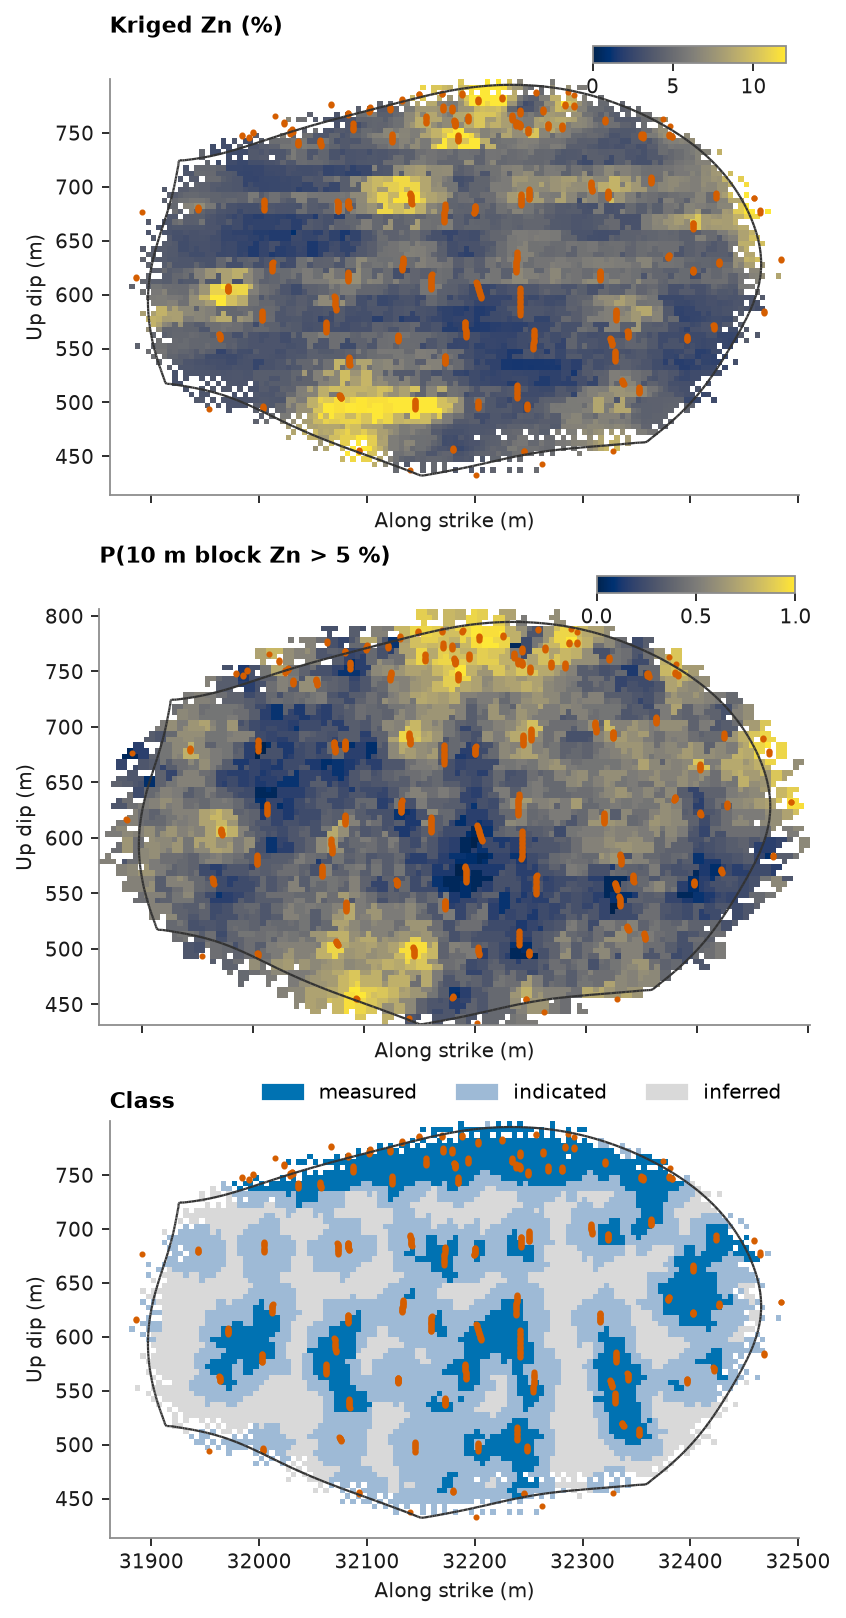
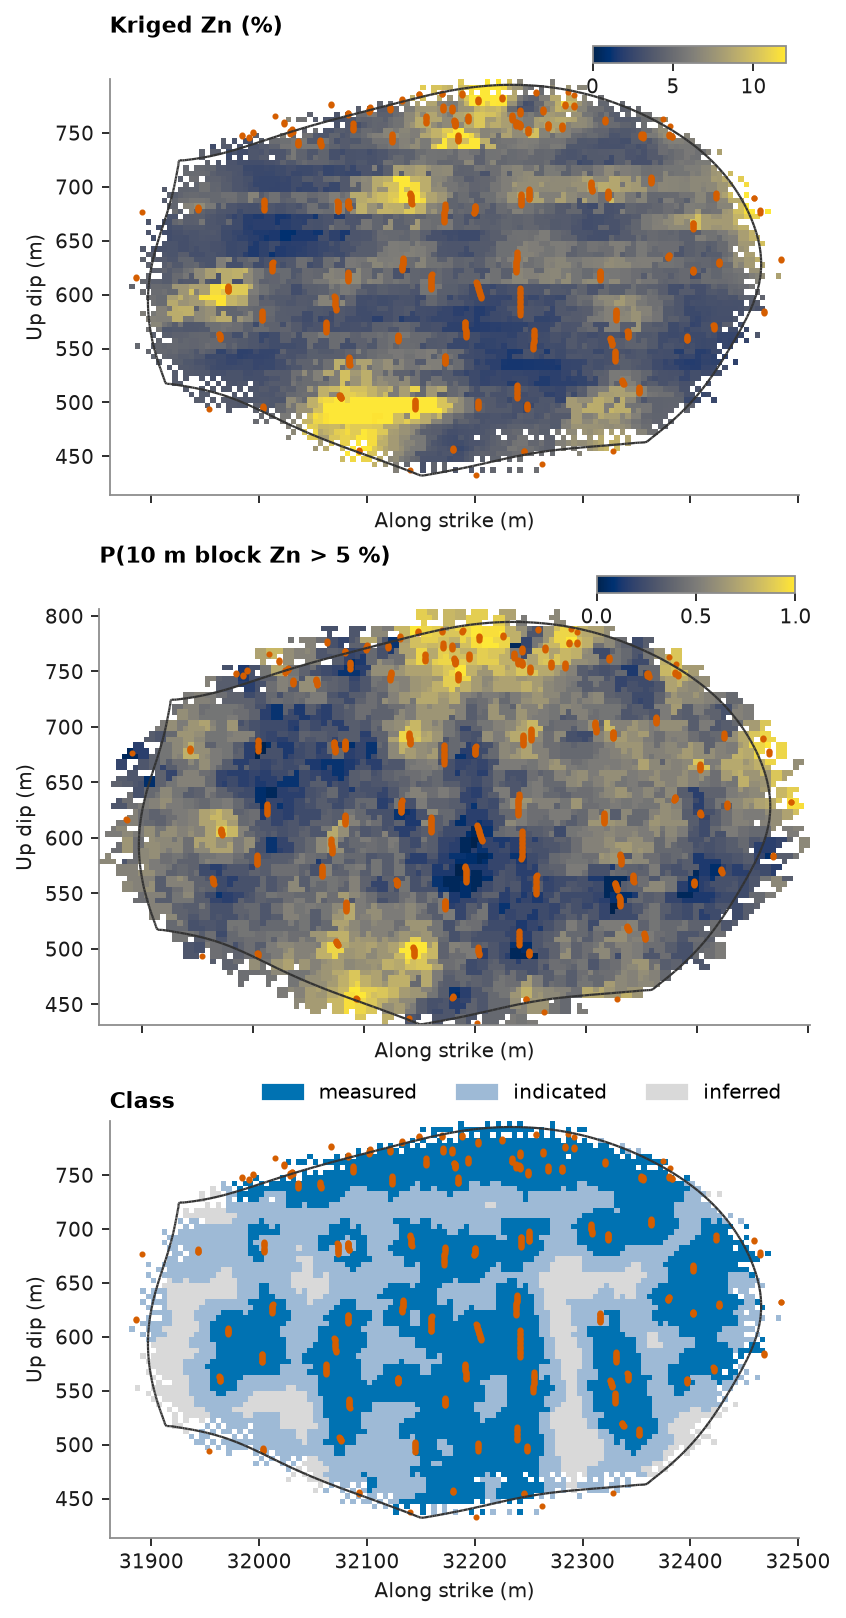
docs(examples): fit the zinc case study variogram up to its plateau
With the exact nugget fit, the Zn and normal-score variograms of lens 1,
fitted over all lags to 150 m, came out with a range at the end of the
lags (148 and 176 m) and a nugget of two thirds of the sill: the long
lags hold three to four times the pairs of the short ones and set the
pair-count weighted fit. Both are now fitted up to 60 m, just past the
45 m where gamma first reaches its plateau; the fit is stable for any
maximum lag from 50 to 70 m.

Zn: nugget 6.86, spherical sill 8.25, range 56 m. Measured, indicated
and inferred blocks: 36, 42 and 21 %. The validation and tonnage prose
now states the printed numbers.

diff --git a/examples/12-case-studies/02-drillholes-to-classified-model/example_12_02.py b/examples/12-case-studies/02-drillholes-to-classified-model/example_12_02.py
@@ -98,14 +98,16 @@ save(fig, "statistics")
 #
 # Lens 1 has the most composites. A thin lens leaves few pairs across it, so the variogram is omnidirectional;
 # kriging uses the variogram of the grades, simulation that of the declustered normal scores, rescaled to a unit
-# sill.
+# sill. Both are fitted up to 60 m, just past the 45 m where γ first reaches its plateau: the longer lags hold three
+# to four times as many pairs, so with the fit weighted by pair count their scatter about the plateau would set the
+# model and stretch the range to the end of the lags.
 
 # %%
 one = composites.filter(names == "lens_1")
 grades = bt.experimental_variogram(one, "ZN_PCT", 10.0, 150.0)
-variogram = grades.fit("spherical")
+variogram = bt.experimental_variogram(one, "ZN_PCT", 10.0, 60.0).fit("spherical")
 scores = bt.NormalScore().fit(one["ZN_PCT"], weights=one["weight"])
-fitted = bt.experimental_variogram(one.coords, scores.transform(one["ZN_PCT"]), 10.0, 150.0).fit("spherical")
+fitted = bt.experimental_variogram(one.coords, scores.transform(one["ZN_PCT"]), 10.0, 60.0).fit("spherical")
 gaussian = fitted.standardized()
 for label, model in (("Zn", variogram), ("normal scores", gaussian)):
     s = model.structures[0]
@@ -235,9 +237,8 @@ fig.legend(*axes[0].get_legend_handles_labels(), loc="outside lower center", nco
 save(fig, "swath")
 
 # %% [markdown]
-# In lens 1 the kriged mean equals that of the nearest-neighbor model and lies 5.3 % above the declustered
-# composites; in lenses 2 and 3 it is 4 and 3 % above the declustered composites but 12 and 18 % above nearest
-# neighbor. The two references disagree with each other as much as with the model: nearest neighbor spreads each
+# In lens 1 the kriged mean lies 3 % below the nearest-neighbor model and 7 % below the declustered composites; in
+# lenses 2 and 3 it is 2 and 6 % below the declustered composites but 1 and 4 % above nearest neighbor. The two references disagree with each other as much as with the model: nearest neighbor spreads each
 # edge composite over the blocks around it, and cell declustering depends on the cell size it settles on. Along
 # northing and elevation, kriged blocks and nearest neighbor follow the same course, and the composites swing
 # around both, as raw data do.
@@ -245,7 +246,7 @@ save(fig, "swath")
 # ## Classification
 #
 # Measured blocks come from the first pass with a slope of regression of at least 0.6; indicated, from the first
-# two passes with a slope of 0.3; the rest is inferred. With a nugget of 42 % of the sill and a 46 m range, only
+# two passes with a slope of 0.3; the rest is inferred. With a nugget of 45 % of the sill and a 56 m range, only
 # blocks close to several holes qualify as measured.
 
 # %%
@@ -303,8 +304,9 @@ for groups in (block_lens, classes):
         print(f"{category:10} ≥ {cutoff:1.0f} % Zn{tonnes / 1e3:8.0f}{grade:7.2f}{metal / 1e5:8.1f}")
 
 # %% [markdown]
-# The three lenses hold 22.3 Mt at 5.66 % Zn, 1.26 Mt of zinc, of which 12.0 Mt at 7.45 % lie above 5 % Zn. Lens 1
-# carries 38 % of the metal; measured blocks, only 628 kt, are its rich core near the top.
+# The three lenses hold 22.3 Mt at 5.69 % Zn, 1.27 Mt of zinc, of which 11.9 Mt at 7.50 % lie above 5 % Zn. Lens 1
+# carries 38 % of the metal. Measured blocks, 8.9 Mt at 5.80 % Zn, gather around the holes; inferred ones fill the
+# edges of the lenses and the gaps between holes.
 #
 # The model, sub-blocks, lens names, grades, classes and all, goes to Parquet and back unchanged.
 

diff --git a/examples/12-case-studies/02-drillholes-to-classified-model/README.md b/examples/12-case-studies/02-drillholes-to-classified-model/README.md
@@ -131,16 +131,18 @@ of the metal, and the probability plot shows no break in the upper tail: leave t
 
 Lens 1 has the most composites. A thin lens leaves few pairs across it, so the variogram is omnidirectional;
 kriging uses the variogram of the grades, simulation that of the declustered normal scores, rescaled to a unit
-sill.
+sill. Both are fitted up to 60 m, just past the 45 m where γ first reaches its plateau: the longer lags hold three
+to four times as many pairs, so with the fit weighted by pair count their scatter about the plateau would set the
+model and stretch the range to the end of the lags.
 
 <details><summary>Python</summary>
 
 ```python
 one = composites.filter(names == "lens_1")
 grades = bt.experimental_variogram(one, "ZN_PCT", 10.0, 150.0)
-variogram = grades.fit("spherical")
+variogram = bt.experimental_variogram(one, "ZN_PCT", 10.0, 60.0).fit("spherical")
 scores = bt.NormalScore().fit(one["ZN_PCT"], weights=one["weight"])
-fitted = bt.experimental_variogram(one.coords, scores.transform(one["ZN_PCT"]), 10.0, 150.0).fit("spherical")
+fitted = bt.experimental_variogram(one.coords, scores.transform(one["ZN_PCT"]), 10.0, 60.0).fit("spherical")
 gaussian = fitted.standardized()
 for label, model in (("Zn", variogram), ("normal scores", gaussian)):
     s = model.structures[0]
@@ -154,8 +156,8 @@ save(fig, "variogram")
 </details>
 
 ```text
-Zn: nugget 6.04, spherical sill 8.33, range 46 m
-normal scores: nugget 0.52, spherical sill 0.48, range 58 m
+Zn: nugget 6.86, spherical sill 8.25, range 56 m
+normal scores: nugget 0.50, spherical sill 0.50, range 54 m
 ```
 
 ![variogram](variogram.png)
@@ -230,10 +232,10 @@ print(f"density {np.nanmin(blocks['density']):.2f}-{np.nanmax(blocks['density'])
 </details>
 
 ```text
-pass 1: 50% of blocks
-pass 2: 48% of blocks
-pass 3: 2% of blocks
-density 2.93-4.54 t/m3
+pass 1: 78% of blocks
+pass 2: 22% of blocks
+pass 3: 0% of blocks
+density 2.92-4.54 t/m3
 ```
 
 ## Simulation at block support
@@ -261,7 +263,7 @@ print(f"mean {summary.mean.mean():.2f} % Zn; blocks above 5 % in more than 90 % 
 
 ```text
 4394 parent blocks: P10 36%, P90 46% of them above 5 % Zn
-mean 4.94 % Zn; blocks above 5 % in more than 90 % of realizations: 1%
+mean 4.96 % Zn; blocks above 5 % in more than 90 % of realizations: 1%
 ```
 
 In eight realizations out of ten, between 36 and 46 % of the parent blocks exceed 5 % Zn, yet only 1 % of them do
@@ -314,16 +316,15 @@ save(fig, "swath")
 </details>
 
 ```text
-lens_1: kriged 4.79 % Zn, declustered composites 5.18 % (-7.5%), nearest neighbor 4.96 % (-3.5%)
-lens_2: kriged 5.75 % Zn, declustered composites 5.84 % (-1.6%), nearest neighbor 5.67 % (+1.4%)
-lens_3: kriged 6.43 % Zn, declustered composites 6.87 % (-6.5%), nearest neighbor 6.27 % (+2.5%)
+lens_1: kriged 4.80 % Zn, declustered composites 5.18 % (-7.2%), nearest neighbor 4.96 % (-3.2%)
+lens_2: kriged 5.74 % Zn, declustered composites 5.84 % (-1.8%), nearest neighbor 5.67 % (+1.2%)
+lens_3: kriged 6.49 % Zn, declustered composites 6.87 % (-5.6%), nearest neighbor 6.27 % (+3.5%)
 ```
 
 ![swath](swath.png)
 
-In lens 1 the kriged mean equals that of the nearest-neighbor model and lies 5.3 % above the declustered
-composites; in lenses 2 and 3 it is 4 and 3 % above the declustered composites but 12 and 18 % above nearest
-neighbor. The two references disagree with each other as much as with the model: nearest neighbor spreads each
+In lens 1 the kriged mean lies 3 % below the nearest-neighbor model and 7 % below the declustered composites; in
+lenses 2 and 3 it is 2 and 6 % below the declustered composites but 1 and 4 % above nearest neighbor. The two references disagree with each other as much as with the model: nearest neighbor spreads each
 edge composite over the blocks around it, and cell declustering depends on the cell size it settles on. Along
 northing and elevation, kriged blocks and nearest neighbor follow the same course, and the composites swing
 around both, as raw data do.
@@ -331,7 +332,7 @@ around both, as raw data do.
 ## Classification
 
 Measured blocks come from the first pass with a slope of regression of at least 0.6; indicated, from the first
-two passes with a slope of 0.3; the rest is inferred. With a nugget of 42 % of the sill and a 46 m range, only
+two passes with a slope of 0.3; the rest is inferred. With a nugget of 45 % of the sill and a 56 m range, only
 blocks close to several holes qualify as measured.
 
 <details><summary>Python</summary>
@@ -351,9 +352,9 @@ for name in categories.names:
 </details>
 
 ```text
- measured: 17% of blocks
-indicated: 44% of blocks
- inferred: 39% of blocks
+ measured: 36% of blocks
+indicated: 42% of blocks
+ inferred: 21% of blocks
 ```
 
 Lens 1 is seen face on, on the plane through its middle, with its outline on that plane and its composites as
@@ -415,26 +416,27 @@ for groups in (block_lens, classes):
 
 ```text
                           kt   Zn %   kt Zn
-lens_1     ≥ 0 % Zn    9709   4.91   476.7
-lens_1     ≥ 5 % Zn    3780   7.08   267.5
-lens_2     ≥ 0 % Zn    6609   5.96   393.6
-lens_2     ≥ 5 % Zn    3787   7.74   293.2
-lens_3     ≥ 0 % Zn    5966   6.57   392.0
-lens_3     ≥ 5 % Zn    4384   7.53   330.2
-all        ≥ 0 % Zn   22285   5.66  1262.4
-all        ≥ 5 % Zn   11951   7.45   890.9
-indicated  ≥ 0 % Zn   10076   5.72   576.1
-indicated  ≥ 5 % Zn    5381   7.59   408.5
-inferred   ≥ 0 % Zn    8246   5.50   453.1
-inferred   ≥ 5 % Zn    4395   7.11   312.4
-measured   ≥ 0 % Zn    3963   5.88   233.2
-measured   ≥ 5 % Zn    2175   7.82   170.0
-all        ≥ 0 % Zn   22285   5.66  1262.4
-all        ≥ 5 % Zn   11951   7.45   890.9
+lens_1     ≥ 0 % Zn    9714   4.93   479.0
+lens_1     ≥ 5 % Zn    3767   7.16   269.8
+lens_2     ≥ 0 % Zn    6602   5.95   392.6
+lens_2     ≥ 5 % Zn    3762   7.76   291.9
+lens_3     ≥ 0 % Zn    5975   6.63   396.4
+lens_3     ≥ 5 % Zn    4402   7.58   333.7
+all        ≥ 0 % Zn   22291   5.69  1268.1
+all        ≥ 5 % Zn   11931   7.50   895.4
+indicated  ≥ 0 % Zn    9279   5.65   524.1
+indicated  ≥ 5 % Zn    4880   7.48   364.8
+inferred   ≥ 0 % Zn    4112   5.54   228.0
+inferred   ≥ 5 % Zn    2256   7.05   159.0
+measured   ≥ 0 % Zn    8899   5.80   515.9
+measured   ≥ 5 % Zn    4796   7.75   371.5
+all        ≥ 0 % Zn   22291   5.69  1268.1
+all        ≥ 5 % Zn   11931   7.50   895.4
 ```
 
-The three lenses hold 22.3 Mt at 5.66 % Zn, 1.26 Mt of zinc, of which 12.0 Mt at 7.45 % lie above 5 % Zn. Lens 1
-carries 38 % of the metal; measured blocks, only 628 kt, are its rich core near the top.
+The three lenses hold 22.3 Mt at 5.69 % Zn, 1.27 Mt of zinc, of which 11.9 Mt at 7.50 % lie above 5 % Zn. Lens 1
+carries 38 % of the metal. Measured blocks, 8.9 Mt at 5.80 % Zn, gather around the holes; inferred ones fill the
+edges of the lenses and the gaps between holes.
 
 The model, sub-blocks, lens names, grades, classes and all, goes to Parquet and back unchanged.
 
